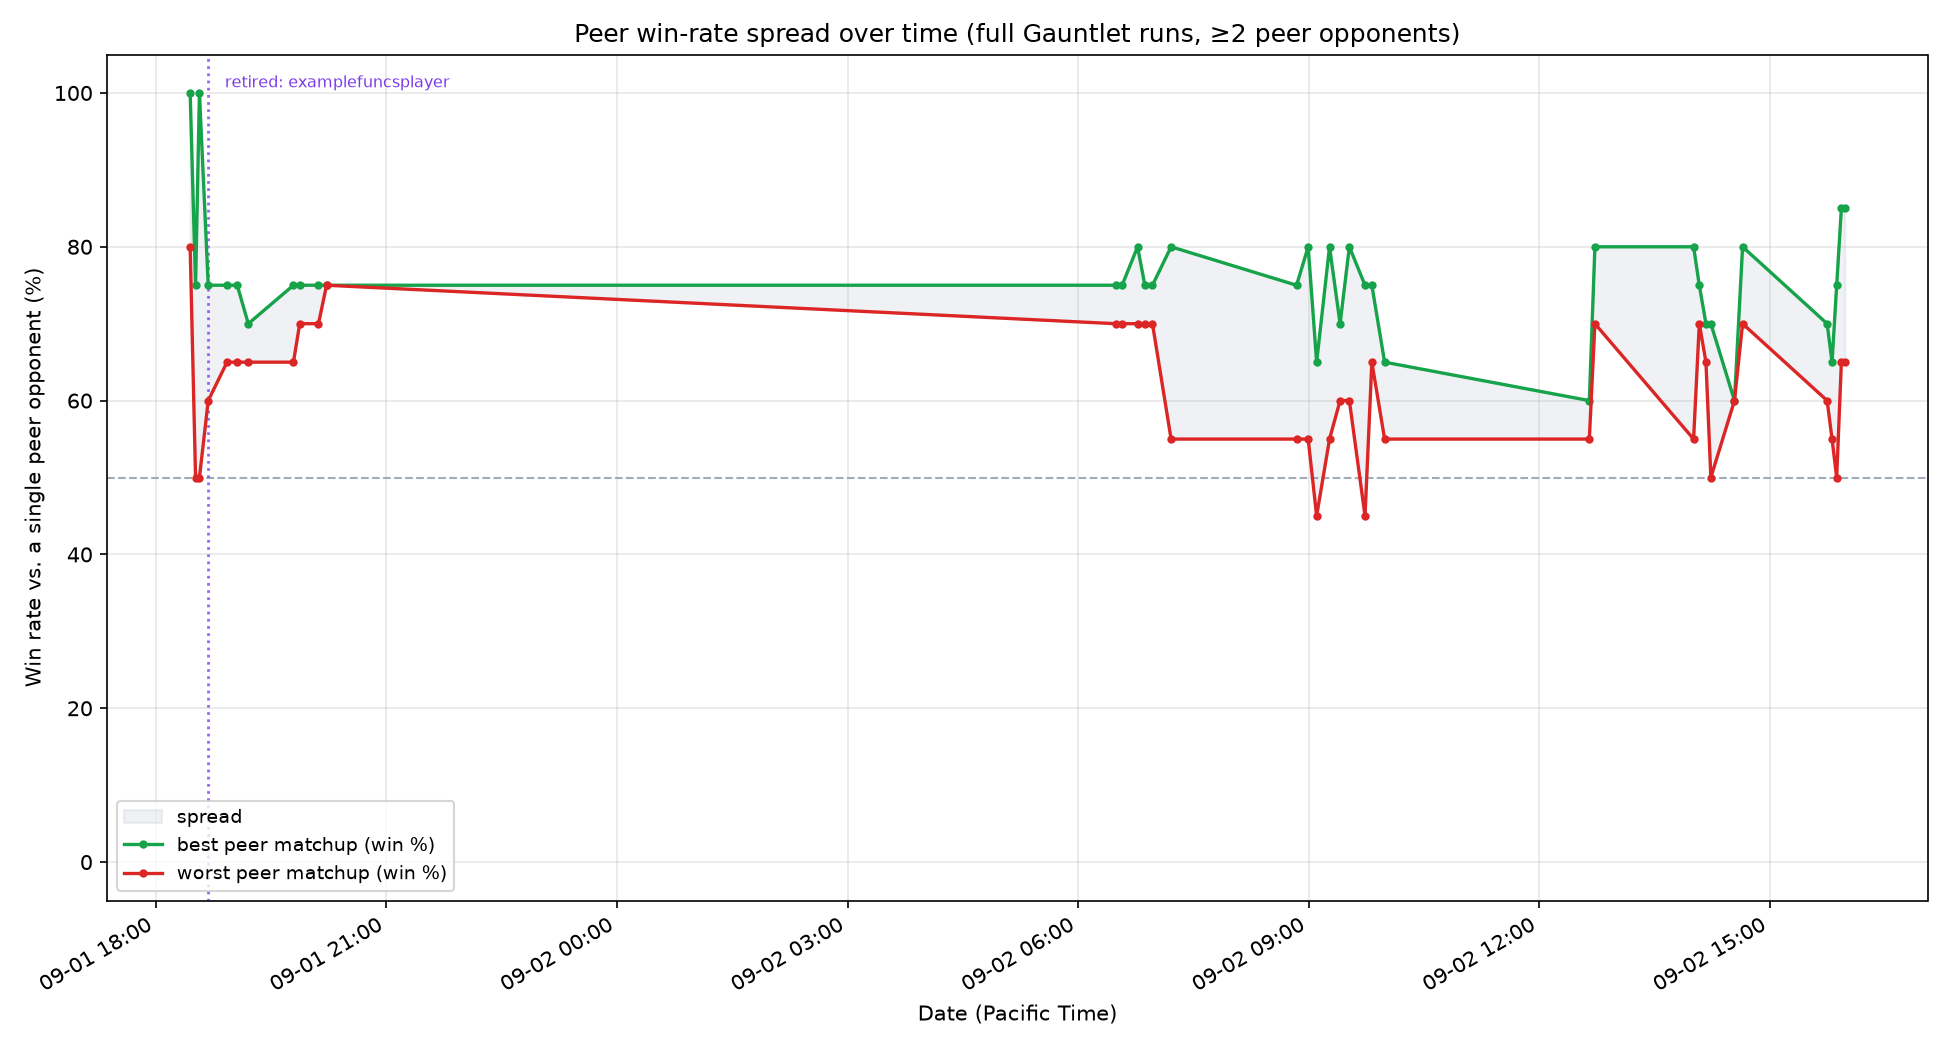
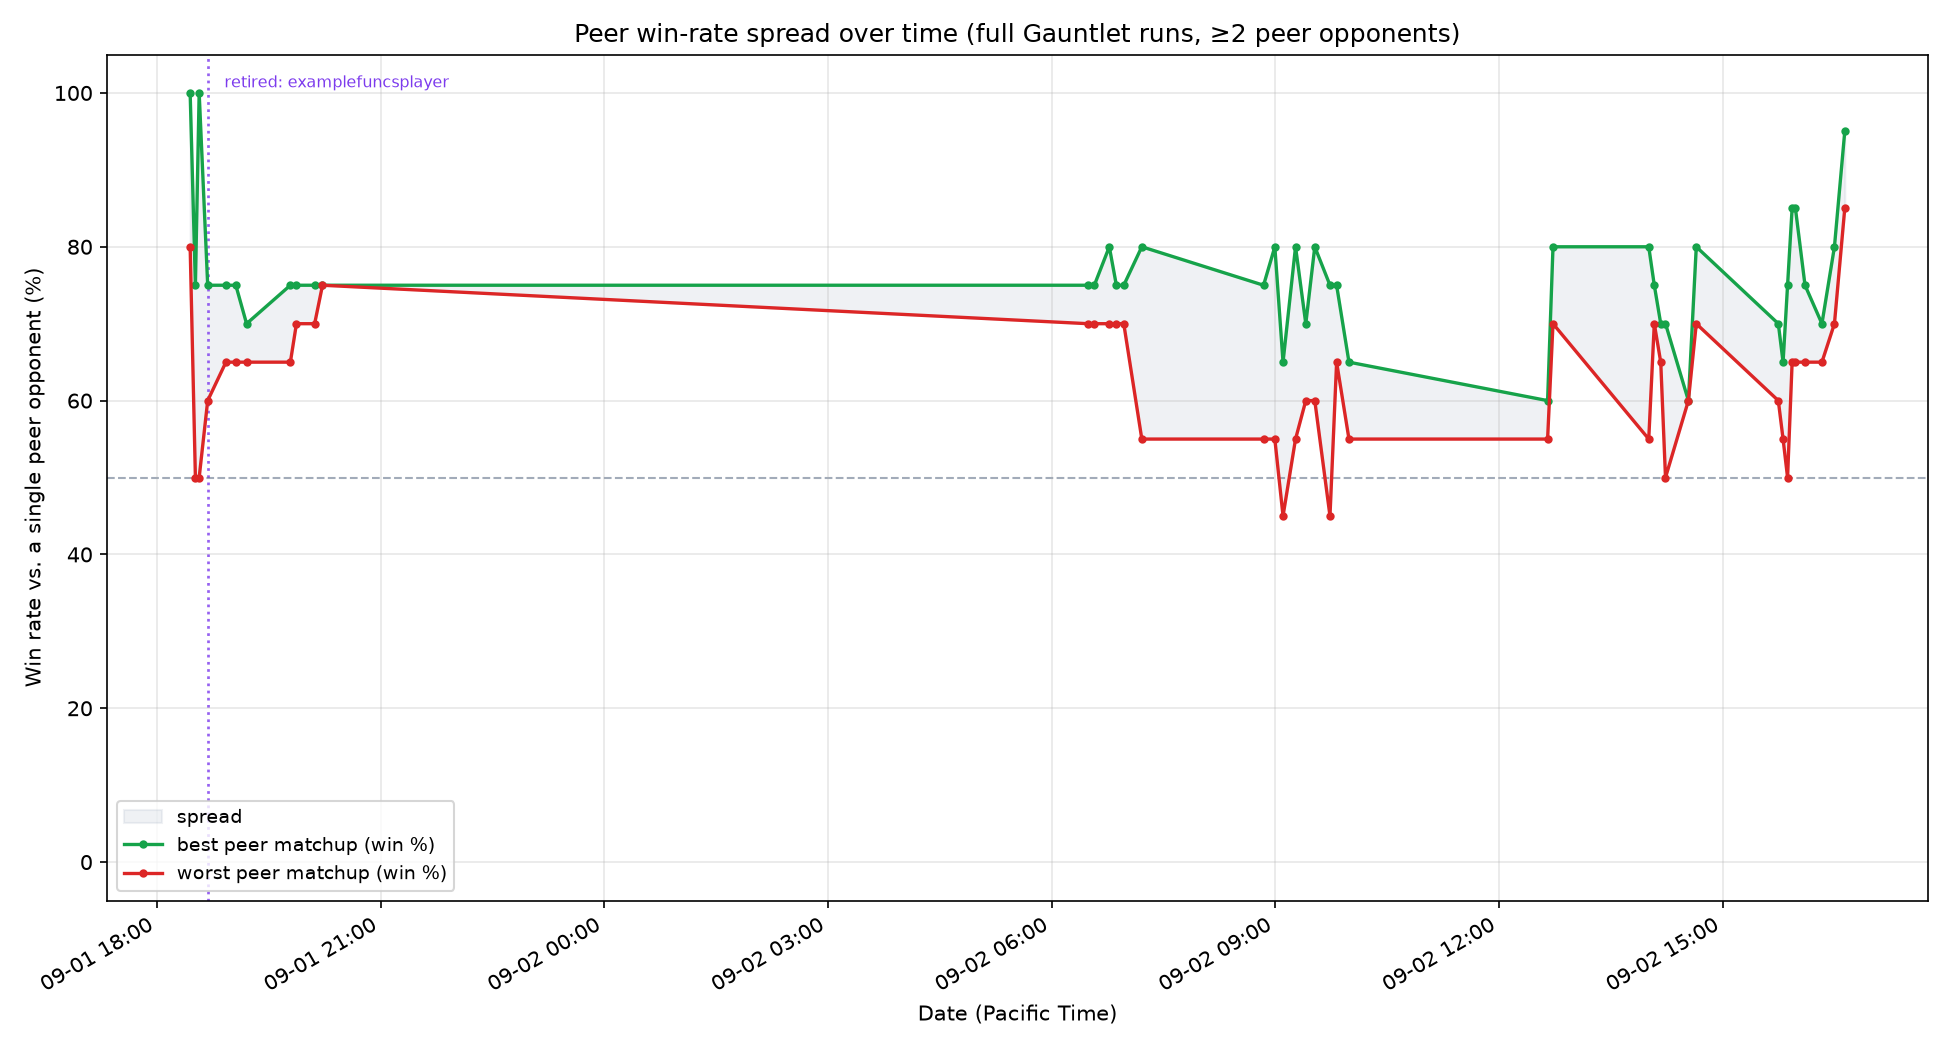
Fix peer_win_spread chart counting vs-old-bots runs as peer runs
Once the vs-old-bots roster grew past one opponent it started clearing
MIN_PEERS, so plot_alt_metrics.py included those runs as if they were
peer-roster Gauntlets. Two consequences: old-bot win rates were plotted
on the peer chart, and retirement_events() read the alternation between
peer runs and old-bot runs as opponents vanishing -- reporting
pure_cooperator/immediate_defector and then g_iter1/g_iter11 as
"retired" when nothing had been. Excluded runs whose opponents are all
g_iterN snapshots; back to the one genuine retirement.

Claude-Session: https://claude.ai/code/session_01Sgao6EtbbgQ6mM5ZhH5FGP

diff --git a/tools/plot_alt_metrics.py b/tools/plot_alt_metrics.py
@@ -28,6 +28,7 @@ Usage:
 Requires matplotlib in tools/.venv. Run from the repo root.
 """
 import csv
+import re
 from collections import defaultdict
 from datetime import datetime
 from pathlib import Path
@@ -57,9 +58,25 @@ def load_results(path: Path):
         return list(csv.DictReader(f))
 
 
+def is_vs_old_bots_run(per_opp):
+    """True if every opponent is a g_iterN snapshot, i.e. this is a
+    vs-old-bots run rather than a peer-roster Gauntlet.
+
+    These are tracked separately (progress/vs_old_bots.png) and must be
+    excluded here. Including them corrupted this chart two ways once the
+    vs-old-bots roster grew past a single opponent and started clearing
+    MIN_PEERS: their win rates were plotted as if they were peer-roster
+    results, and -- worse -- retirement_events() reads the alternation
+    between peer runs and old-bot runs as opponents disappearing, so it
+    reported `pure_cooperator`/`immediate_defector` and then
+    `g_iter1`/`g_iter11` as "retired" when nothing had been retired at
+    all."""
+    return bool(per_opp) and all(re.fullmatch(r"g_iter\d+", o) for o in per_opp)
+
+
 def full_runs():
-    """(rundir, timestamp, {opponent -> [wins, total]}) for every run with
-    >= MIN_PEERS distinct peer opponents, sorted by time."""
+    """(rundir, timestamp, {opponent -> [wins, total]}) for every
+    peer-roster run with >= MIN_PEERS distinct opponents, sorted by time."""
     runs = []
     for rundir in sorted(Path(REPO_ROOT / "gauntlet").glob("*/")):
         p = rundir / "results.csv"
@@ -73,7 +90,7 @@ def full_runs():
             per_opp[opp][1] += 1
             if row["bot_result"] == "win":
                 per_opp[opp][0] += 1
-        if len(per_opp) < MIN_PEERS:
+        if len(per_opp) < MIN_PEERS or is_vs_old_bots_run(per_opp):
             continue
         runs.append((rundir, run_timestamp(rundir), per_opp))
     return runs
